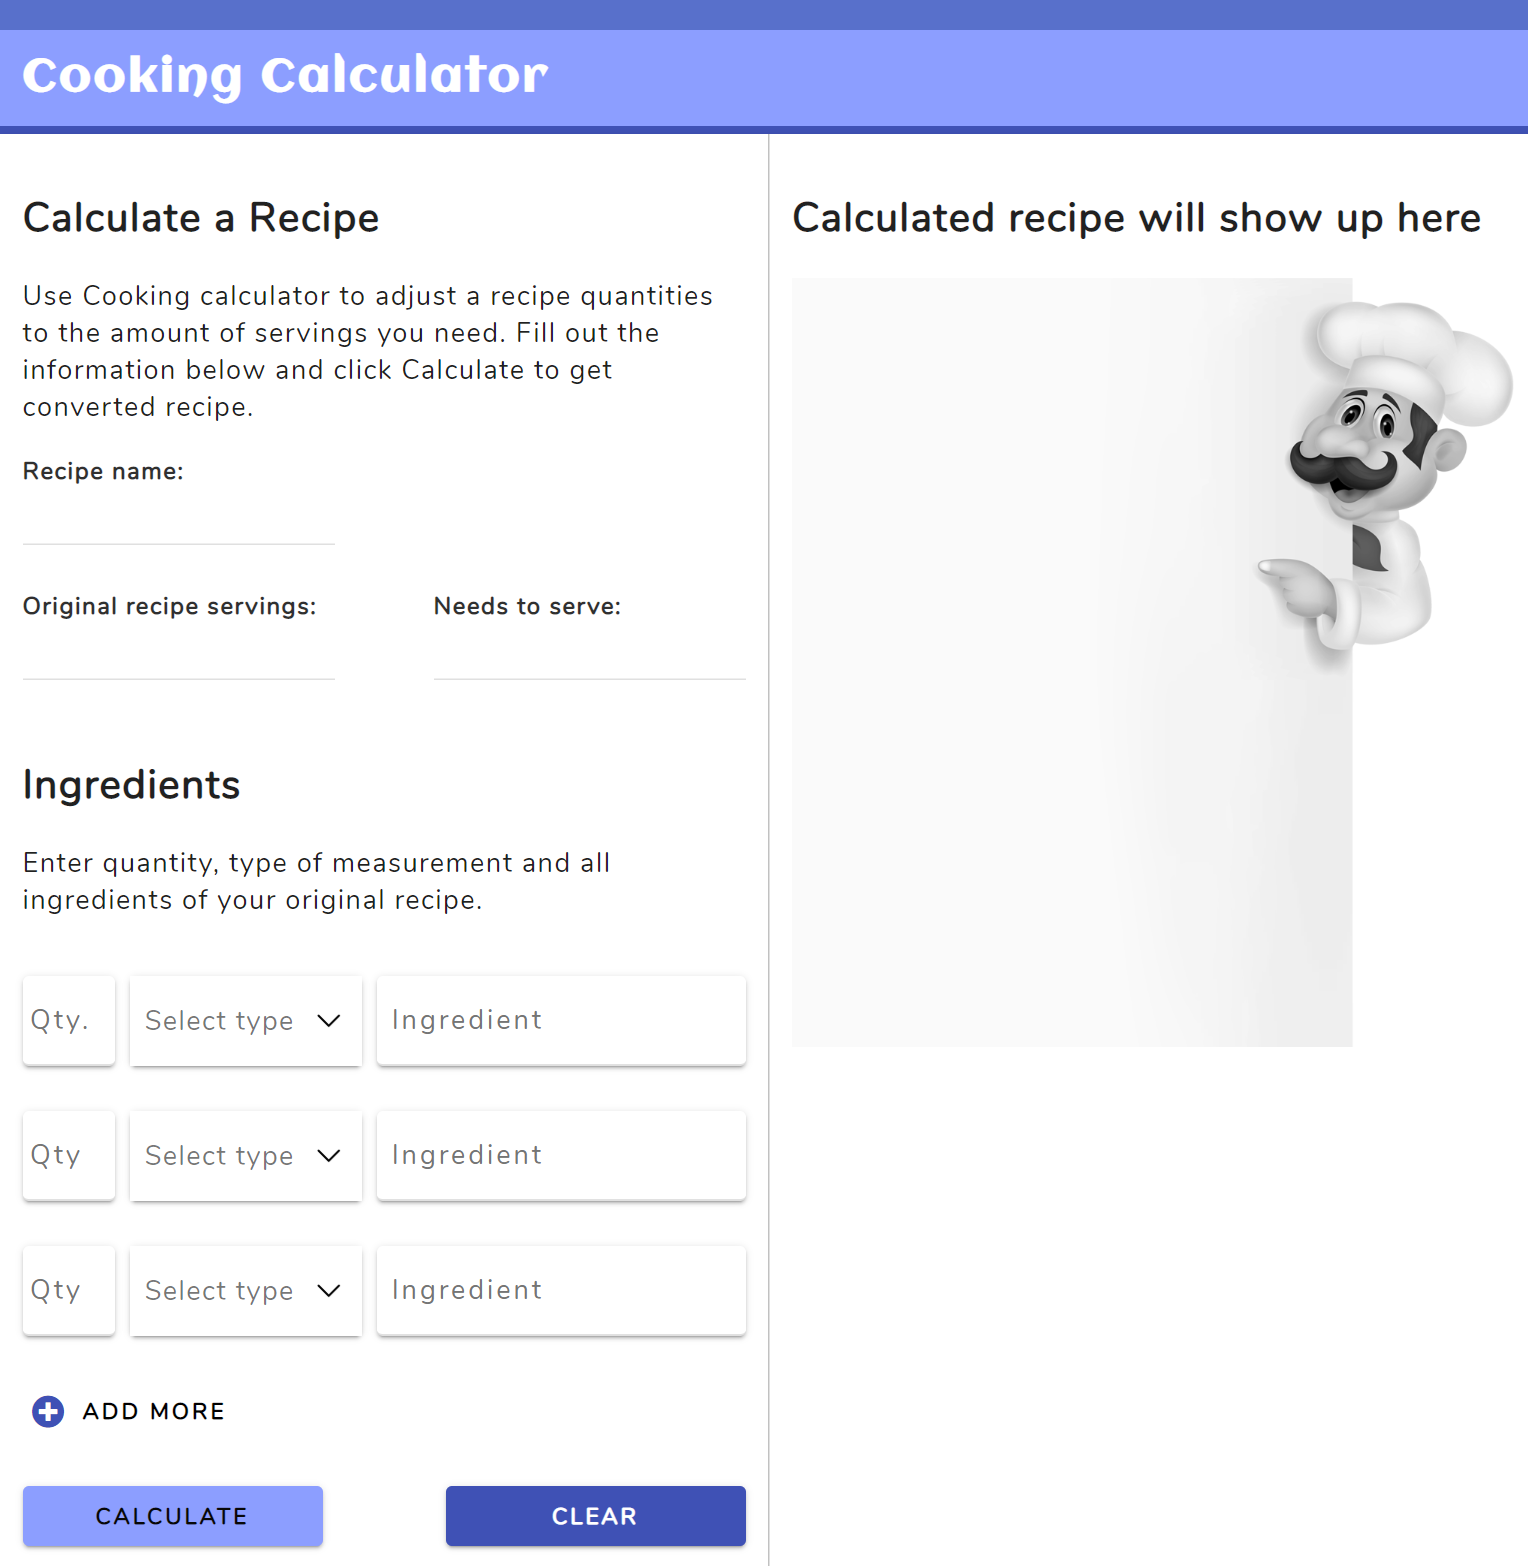
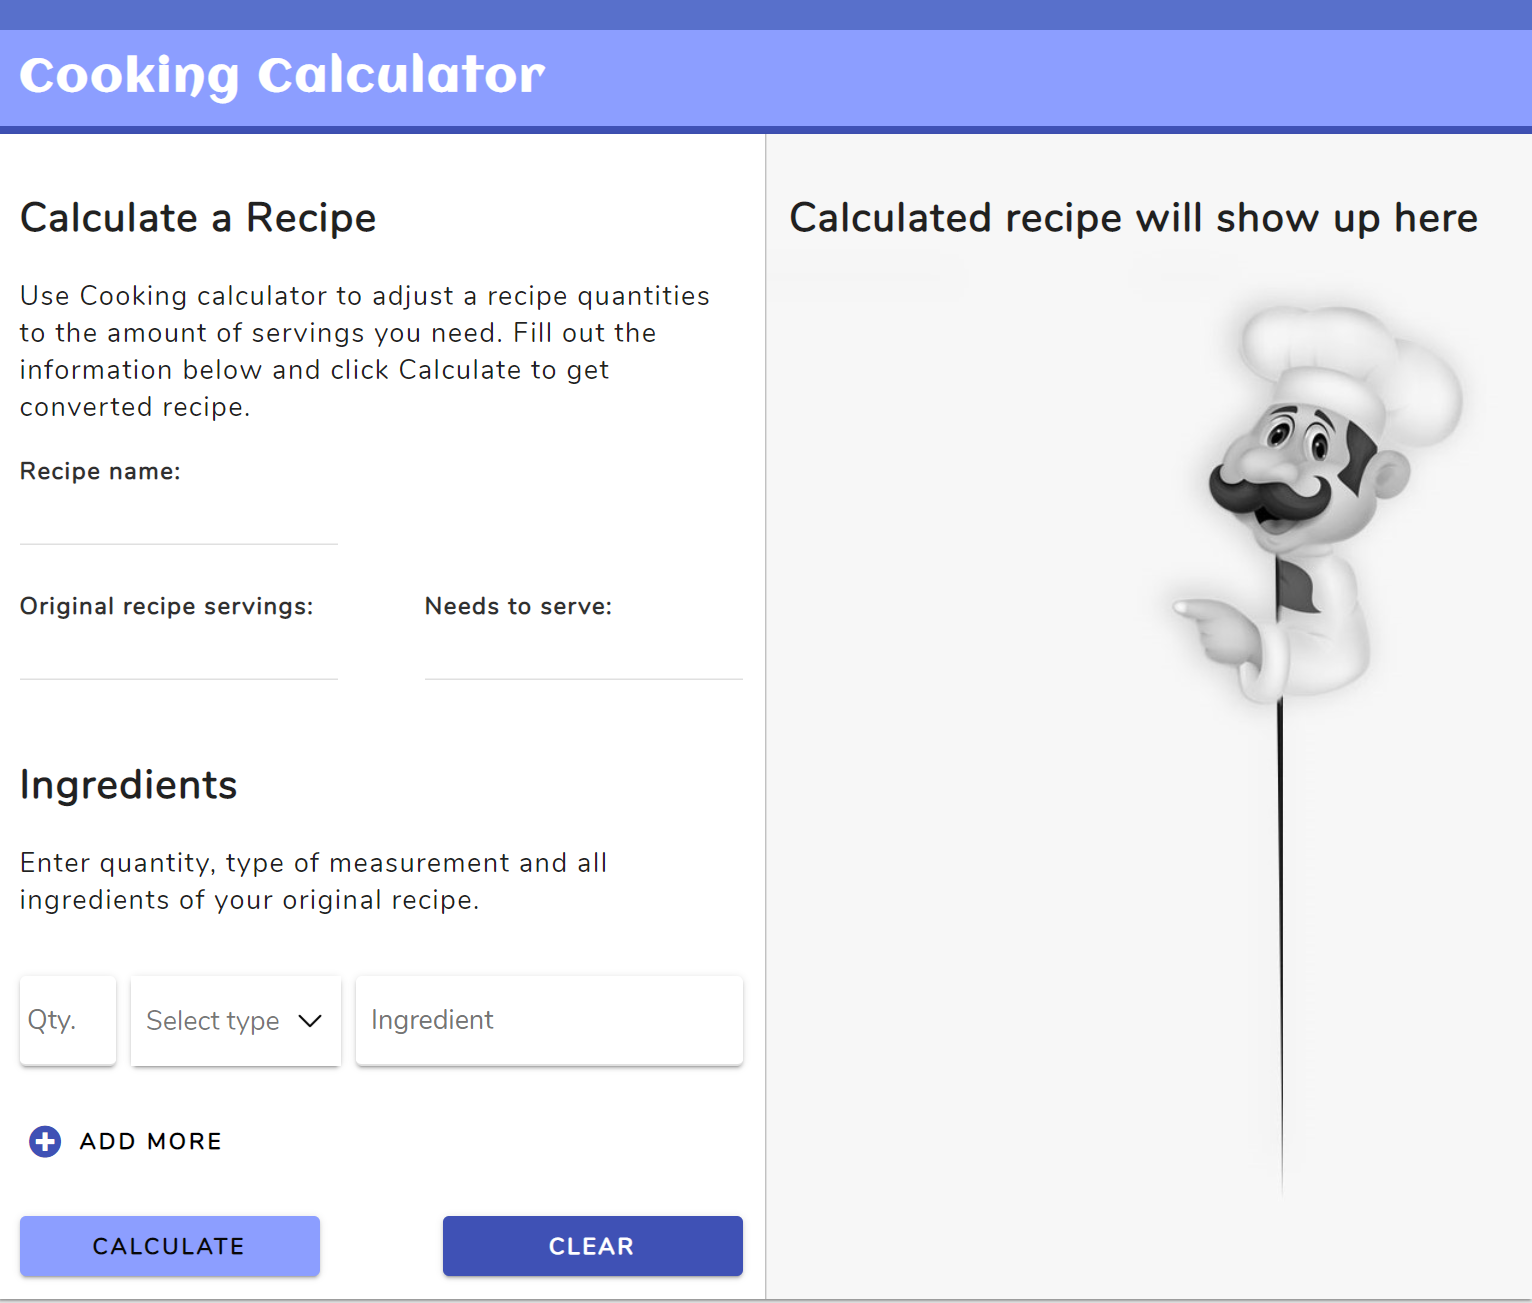
Updated Readme, removeDefaultDisplay removes default background now

diff --git a/js/app.js b/js/app.js
@@ -9,7 +9,7 @@ form.addEventListener('submit', function (event) {
   event.preventDefault();
 
   if (validateForm()) {
-    removeDefaultHeading();
+    removeDefaultDisplay();
     outputRecipe();
     printRecipe();
   }
@@ -142,10 +142,16 @@ Array.from(ingredients).forEach((ingredient) => {
 });
 
 
-// FUNCTION remove default heading before calculated recipe shows
+// FUNCTION remove default display before calculated recipe shows
 
-function removeDefaultHeading() {
+function removeDefaultDisplay() {
   const defaultHeading = document.querySelector('.section-results__title');
+  const defaultBackgroundImage = document.querySelector('.section-results');
+
+  if(defaultBackgroundImage.classList.contains('section-results--background')) {
+    defaultBackgroundImage.classList.remove('section-results--background');
+  };
+
   defaultHeading.innerHTML = '';
 }
 
@@ -189,7 +195,7 @@ function outputRecipe() {
 
   });
 
-  // check if calculated recipe is already displayed 
+  // check if calculated recipe is already displayed
   if (recipeCalculated.querySelector('h3')) {
     recipeCalculated.removeChild(recipeCalculated.querySelector('h3'));
     recipeCalculated.removeChild(recipeCalculated.querySelector('p'));
